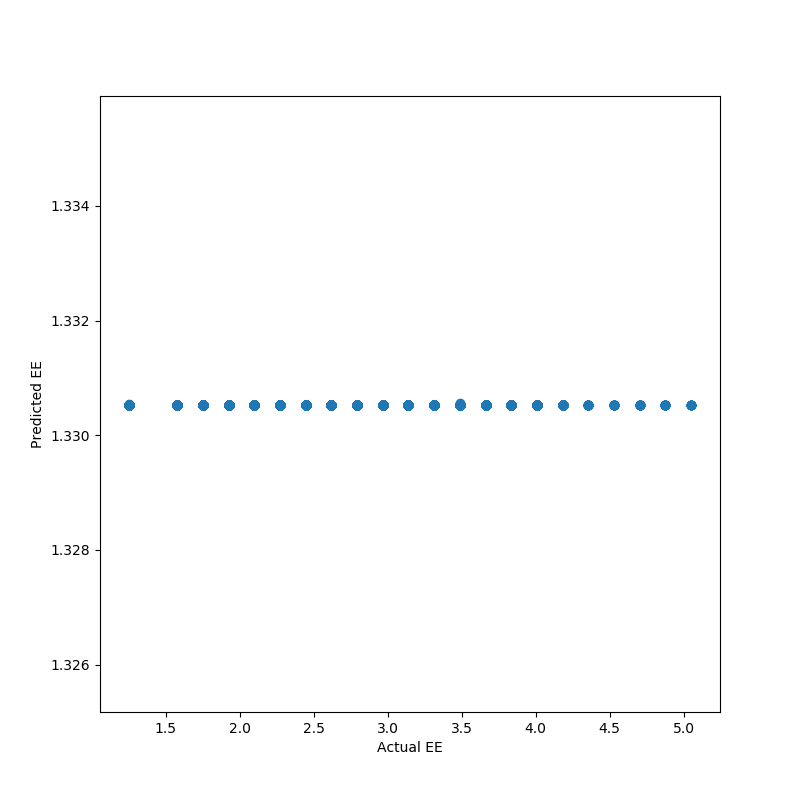
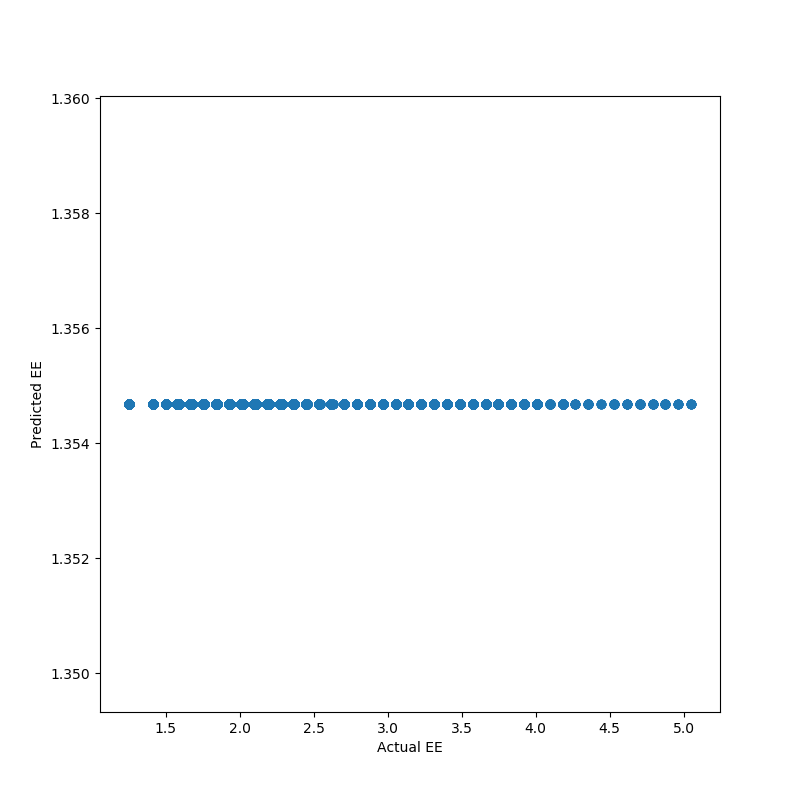
Collected predictions after data balancing

diff --git a/CNN_ACCL_OA/cnn_regression_pal.py b/CNN_ACCL_OA/cnn_regression_pal.py
@@ -35,12 +35,12 @@ from sklearn.metrics import explained_variance_score, mean_squared_error, r2_sco
 
 import statistical_extensions as SE
 
-training_dataset_path = 'E:/Data/Accelerometer_Dataset_Rashmika/OA_data/supervised_data/ActivPAL/balanced/numpy_window-300-overlap-150_train/'
+training_dataset_path = 'E:/Data/Accelerometer_Dataset_Rashmika/OA_data/supervised_data/ActivPAL/numpy_window-300-overlap-150_train/'
 test_dataset_path = 'E:/Data/Accelerometer_Dataset_Rashmika/OA_data/supervised_data/ActivPAL/numpy_window-300-overlap-150_test/'
-temp_model_out_folder = 'E:/Projects/Accelerometer_OA_gihan/CNN_ACCL_OA/Model_outputs/CNN_pal_reg/balanced_train_unb_test/temp_model_out/'
-MODEL_FOLDER = 'E:/Projects/Accelerometer_OA_gihan/CNN_ACCL_OA/Model_outputs/CNN_pal_reg/balanced_train_unb_test/'
+temp_model_out_folder = 'E:/Projects/Accelerometer_OA_gihan/CNN_ACCL_OA/Model_outputs/CNN_pal_reg/temp_model_out/'
+MODEL_FOLDER = 'E:/Projects/Accelerometer_OA_gihan/CNN_ACCL_OA/Model_outputs/CNN_pal_reg/'
 TIME_PERIODS = 300
-model_checkpoint_path = 'E:/Projects/Accelerometer_OA_gihan/CNN_ACCL_OA/Model_outputs/CNN_pal_reg/balanced_train_unb_test/temp_model_out/'
+model_checkpoint_path = 'E:/Projects/Accelerometer_OA_gihan/CNN_ACCL_OA/Model_outputs/CNN_pal_reg/temp_model_out/'
 
 def load_data(filenames):
 
@@ -87,27 +87,82 @@ def plot_model(history, MODEL_FOLDER):
     plt.savefig(MODEL_FOLDER + 'learning_history.png')
     plt.clf()
     plt.close()
-print('hi')
+# print('hi')
+#
+# training_data_files = [join(training_dataset_path, f) for f in listdir(training_dataset_path) if isfile(join(training_dataset_path, f))]
+#
+# print(training_data_files)
+# train_X_data, train_Y_data, train_ID_user = load_data(training_data_files)
+# X_train, y_train, ID_train = train_X_data, train_Y_data, train_ID_user
+# # # Data -> Model ready
+# print('first',(X_train.shape))
+# num_time_periods, num_sensors = X_train.shape[1], X_train.shape[2]
+#
+# # Set input_shape / reshape for Keras
+# input_shape = (num_time_periods * num_sensors)
+# X_train = X_train.reshape(X_train.shape[0], input_shape)
+#
+# # Convert type for Keras otherwise Keras cannot process the data
+# X_train = X_train.astype("float32")
+# y_train = y_train.astype("float32")
+#
+#
+#
 
-training_data_files = [join(training_dataset_path, f) for f in listdir(training_dataset_path) if isfile(join(training_dataset_path, f))]
+#
+#
+#
+#
+# """Model architecture"""
+# model_m = Sequential()
+# model_m.add(Reshape((TIME_PERIODS, num_sensors), input_shape=(input_shape,)))
+# model_m.add(Conv1D(80, 10, activation='relu', input_shape=(TIME_PERIODS, num_sensors)))
+# model_m.add(Conv1D(100, 10, activation='relu'))
+# model_m.add(MaxPooling1D(3))
+# model_m.add(Conv1D(160, 10, activation='relu'))
+# model_m.add(Conv1D(180, 10, activation='relu'))
+# model_m.add(MaxPooling1D(3))
+# model_m.add(Conv1D(220, 10, activation='relu'))
+# model_m.add(Conv1D(240, 10, activation='relu'))
+# model_m.add(GlobalMaxPooling1D())
+# model_m.add(Dropout(0.5))
+# model_m.add(Dense(1, activation='linear'))
+# print(model_m.summary)
+# callbacks_list = [
+#     ModelCheckpoint(
+#         filepath=model_checkpoint_path+'/best_model.{epoch:03d}-{val_loss:.2f}.h5',
+#         monitor='val_loss', save_best_only=True),
+#     TensorBoard(log_dir='logs\\{}'.format(time())),
+#     EarlyStopping(monitor='val_loss', patience=6)
+# ]
+#
+# model_m.compile(loss='mean_squared_error',
+#                 optimizer='adam',
+#                 metrics=['accuracy'])
+#
+# # Hyper-parameters
+# BATCH_SIZE = 32
+# EPOCHS = 10
+#
+# history = model_m.fit(X_train,
+#                       y_train,
+#                       batch_size=BATCH_SIZE,
+#                       epochs=EPOCHS,
+#                       callbacks=callbacks_list,
+#                       validation_split=0.2,
+#                       verbose=2)
+# _, accuracy = model_m.evaluate(X_train, y_train, batch_size=BATCH_SIZE, verbose=2)
+# print(accuracy)
+# plot_model(history, MODEL_FOLDER)
+#
 
-print(training_data_files)
-train_X_data, train_Y_data, train_ID_user = load_data(training_data_files)
-X_train, y_train, ID_train = train_X_data, train_Y_data, train_ID_user
-# # Data -> Model ready
-print('first',(X_train.shape))
-num_time_periods, num_sensors = X_train.shape[1], X_train.shape[2]
-
-# Set input_shape / reshape for Keras
-input_shape = (num_time_periods * num_sensors)
-X_train = X_train.reshape(X_train.shape[0], input_shape)
-
-# Convert type for Keras otherwise Keras cannot process the data
-X_train = X_train.astype("float32")
-y_train = y_train.astype("float32")
 
 
 
+#prediction part
+num_classes = 3
+input_shape = 900
+model_m =  load_model(join(temp_model_out_folder, 'best_model.010-0.15.h5'))
 test_data_files = [join(test_dataset_path, f) for f in listdir(test_dataset_path) if isfile(join(test_dataset_path, f))]
 print(test_data_files)
 test_X_data, test_Y_data, test_ID_user = load_data(test_data_files)
@@ -116,52 +171,6 @@ test_X_data = test_X_data.reshape(test_X_data.shape[0], input_shape).astype("flo
 print('first',test_X_data.shape)
 # test_X_data = test_X_data.astype("float32")
 test_Y_data = test_Y_data.astype("float32")
-
-
-
-
-"""Model architecture"""
-model_m = Sequential()
-model_m.add(Reshape((TIME_PERIODS, num_sensors), input_shape=(input_shape,)))
-model_m.add(Conv1D(80, 10, activation='relu', input_shape=(TIME_PERIODS, num_sensors)))
-model_m.add(Conv1D(100, 10, activation='relu'))
-model_m.add(MaxPooling1D(3))
-model_m.add(Conv1D(160, 10, activation='relu'))
-model_m.add(Conv1D(180, 10, activation='relu'))
-model_m.add(MaxPooling1D(3))
-model_m.add(Conv1D(220, 10, activation='relu'))
-model_m.add(Conv1D(240, 10, activation='relu'))
-model_m.add(GlobalMaxPooling1D())
-model_m.add(Dropout(0.5))
-model_m.add(Dense(1, activation='linear'))
-print(model_m.summary)
-callbacks_list = [
-    ModelCheckpoint(
-        filepath=model_checkpoint_path+'/best_model.{epoch:03d}-{val_loss:.2f}.h5',
-        monitor='val_loss', save_best_only=True),
-    TensorBoard(log_dir='logs\\{}'.format(time())),
-    EarlyStopping(monitor='val_loss', patience=6)
-]
-
-model_m.compile(loss='mean_squared_error',
-                optimizer='adam',
-                metrics=['accuracy'])
-
-# Hyper-parameters
-BATCH_SIZE = 32
-EPOCHS = 10
-
-history = model_m.fit(X_train,
-                      y_train,
-                      batch_size=BATCH_SIZE,
-                      epochs=EPOCHS,
-                      callbacks=callbacks_list,
-                      validation_split=0.2,
-                      verbose=2)
-_, accuracy = model_m.evaluate(X_train, y_train, batch_size=BATCH_SIZE, verbose=2)
-# print(accuracy)
-# plot_model(history, MODEL_FOLDER)
-#
 # print('Selecting best model.')
 #
 # model_files = [(join(temp_model_out_folder, f), int(f.split('-')[0].split('.')[1])) for f in
@@ -239,9 +248,9 @@ def clean_data_points(data):
     return data
 
 results_df = clean_data_points(results_df)
-result_string = '\n'.join(grp_results)
-with open(MODEL_FOLDER+'/result_report.txt', "w") as text_file:
-    text_file.write(result_string)
+# result_string = '\n'.join(grp_results)
+# with open(MODEL_FOLDER+'/result_report.txt', "w") as text_file:
+#     text_file.write(result_string)
 
 # import statistical_extensions_1 as SE1
 SE.BlandAltman.bland_altman_paired_plot_tested(results_df, 'FOLDER_NAME', 1, log_transformed=True,

diff --git a/CNN_ACCL_OA/cnn_class_graph.py b/CNN_ACCL_OA/cnn_class_graph.py
@@ -29,12 +29,12 @@ import statistical_extensions as SE
 # sns.set()  # Default seaborn look and feel
 # plt.style.use('ggplot')
 
-training_dataset_path = 'E:/Data/Accelerometer_Dataset_Rashmika/OA_data/supervised_data/ActiGraph/numpy_window-3600-overlap-0_train/'
+training_dataset_path = 'E:/Data/Accelerometer_Dataset_Rashmika/OA_data/supervised_data/ActivGraph/balanced/numpy_window-3600-overlap-0_train/'
 test_dataset_path = 'E:/Data/Accelerometer_Dataset_Rashmika/OA_data/supervised_data/ActiGraph/numpy_window-3600-overlap-0_test/'
-temp_model_out_folder = 'E:/Projects/Accelerometer_OA_gihan/CNN_ACCL_OA/Model_outputs/CNN_graph_clas/temp_model_out/'
-MODEL_FOLDER = 'E:/Projects/Accelerometer_OA_gihan/CNN_ACCL_OA/Model_outputs/CNN_graph_clas/'
+temp_model_out_folder = 'E:/Projects/Accelerometer_OA_gihan/CNN_ACCL_OA/Model_outputs/CNN_graph_clas/balanced_train_unbalanced_test/temp_model_out/'
+MODEL_FOLDER = 'E:/Projects/Accelerometer_OA_gihan/CNN_ACCL_OA/Model_outputs/CNN_graph_clas/balanced_train_unbalanced_test/'
 TIME_PERIODS = 3600
-model_checkpoint_path = 'E:/Projects/Accelerometer_OA_gihan/CNN_ACCL_OA/Model_outputs/CNN_graph_clas/temp_model_out/'
+model_checkpoint_path = 'E:/Projects/Accelerometer_OA_gihan/CNN_ACCL_OA/Model_outputs/CNN_graph_clas/balanced_train_unbalanced_test/temp_model_out/'
 
 
 
@@ -149,12 +149,17 @@ def plot_model(history, MODEL_FOLDER):
 #                       callbacks=callbacks_list,
 #                       validation_split=0.2,
 #                       verbose=2)
-
+#
 # plot_model(history, MODEL_FOLDER)
 
+
+
+
+#prediction part
+#
 num_classes = 3
 input_shape = 10800
-model_m =  load_model(join(temp_model_out_folder, 'best_model.008-0.11.h5'))
+model_m =  load_model(join(temp_model_out_folder, 'best_model.010-0.15.h5'))
 
 test_data_files = [join(test_dataset_path, f) for f in listdir(test_dataset_path) if isfile(join(test_dataset_path, f))]
 print(test_data_files)
@@ -216,3 +221,24 @@ result_string = '\n'.join(grp_results)
 with open(join(MODEL_FOLDER,  'result_report.txt'), "w") as text_file:
     text_file.write(result_string)
 
+
+# results_df = pd.DataFrame(
+#     {'subject': test_ID_user,
+#       'waist_ee': list(max_y_test),
+#       'predicted_ee': [list(i)[0] for i in list(max_y_pred_test)]
+#       })
+#
+# def clean_data_points(data):
+#     data = data.assign(waist_ee_cleaned=data['waist_ee'])
+#     data = data.assign(predicted_ee_cleaned=data['predicted_ee'])
+#     data.loc[(data['predicted_ee'] < 1), 'predicted_ee_cleaned'] = 1
+#     return data
+#
+# results_df = clean_data_points(results_df)
+#
+#
+# # import statistical_extensions_1 as SE1
+# SE.BlandAltman.bland_altman_paired_plot_tested(results_df, 'FOLDER_NAME', 1, log_transformed=True,
+#                                                 min_count_regularise=False, output_filename=join(MODEL_FOLDER, 'bland_altman'))
+#
+#

diff --git a/CNN_ACCL_OA/cnn_class_pal.py b/CNN_ACCL_OA/cnn_class_pal.py
@@ -29,12 +29,12 @@ import statistical_extensions as SE
 # sns.set()  # Default seaborn look and feel
 # plt.style.use('ggplot')
 
-training_dataset_path = 'E:/Data/Accelerometer_Dataset_Rashmika/OA_data/supervised_data/ActivPAL/numpy_window-300-overlap-0_train/'
-test_dataset_path = 'E:/Data/Accelerometer_Dataset_Rashmika/OA_data/supervised_data/ActivPAL/numpy_window-300-overlap-0_test/'
-temp_model_out_folder = 'E:/Projects/Accelerometer_OA_gihan/CNN_ACCL_OA/Model_outputs/CNN_pal_clas/temp_model_out/'
-MODEL_FOLDER = 'E:/Projects/Accelerometer_OA_gihan/CNN_ACCL_OA/Model_outputs/CNN_pal_clas/'
+training_dataset_path = 'E:/Data/Accelerometer_Dataset_Rashmika/OA_data/supervised_data/ActivPAL/balanced/numpy_window-300-overlap-150_train/'
+test_dataset_path = 'E:/Data/Accelerometer_Dataset_Rashmika/OA_data/supervised_data/ActivPAL/numpy_window-300-overlap-150_test/'
+temp_model_out_folder = 'E:/Projects/Accelerometer_OA_gihan/CNN_ACCL_OA/Model_outputs/CNN_pal_clas/balanced_train_unb_test/temp_model_out/'
+MODEL_FOLDER = 'E:/Projects/Accelerometer_OA_gihan/CNN_ACCL_OA/Model_outputs/CNN_pal_clas/balanced_train_unb_test/'
 TIME_PERIODS = 300
-model_checkpoint_path = 'E:/Projects/Accelerometer_OA_gihan/CNN_ACCL_OA/Model_outputs/CNN_pal_clas/temp_model_out/'
+model_checkpoint_path = 'E:/Projects/Accelerometer_OA_gihan/CNN_ACCL_OA/Model_outputs/CNN_pal_clas/balanced_train_unb_test/temp_model_out/'
 
 
 
